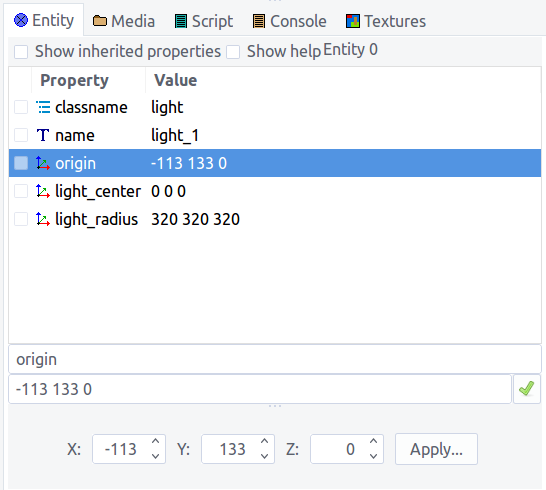
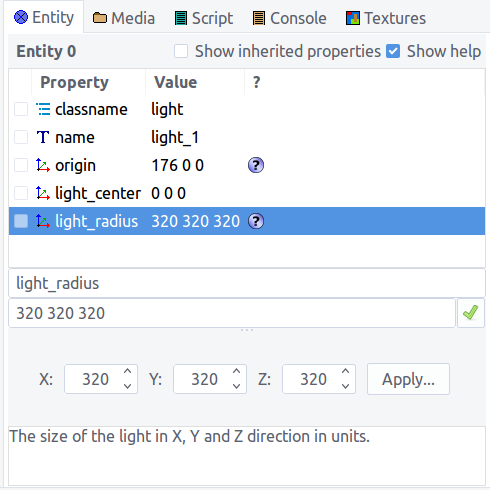
Improve manual section on the entity panel
- Updated screenshot to match the recently-improved widget layout without the
  strange misaligned "Entity 0" label.
- Fleshed out the text to cover editing, adding and removing properties, and
  describing the function of the two checkboxes.

diff --git a/doc/manual.html b/doc/manual.html
@@ -1525,28 +1525,79 @@ These properties are displayed on the <strong>Entity</strong> tab of the editing
 </div>
 </div>
 <div class="paragraph">
-<p>The list box at the top shows all of the properties which are currently set on
-the entity. Every entity has at least two standard properties: <code>classname</code> which
-specifies which type of entity it is, and <code>name</code> which is a unique name for this
-particular entity in the map. Properties that are recognised by DarkRadiant will
-display a small icon indicating the data type: text, boolean, vector etc.</p>
+<p>The entity panel lists all of the properties of the currently-selected entity,
+showing each property&#8217;s name, its current value, and an icon representing its
+type (boolean, vector, text etc) if known. Selecting a property will populate
+the two text boxes in the center of the widget with the property name and value,
+allowing the value to be edited. If the selected property is of a known type,
+the panel at the bottom will show a custom widget appropriate for editing the
+particular property, e.g. three separate numeric spinboxes for a vector
+property, a colour selector widget for a colour property, and so on.</p>
+</div>
+<div class="dlist">
+<dl>
+<dt class="hdlist1"><strong>Changing a property value</strong></dt>
+<dd>
+<p>To change the value of the selected property,
+simply enter the new value in the lower text box, then hit <strong>Enter</strong> or click the
+green tick button. If the property has a type-specific editing widget, you can
+also change its value using the controls in this widget.</p>
+</dd>
+<dt class="hdlist1"><strong>Adding a new property</strong></dt>
+<dd>
+<p>There are two different ways to add a new property:</p>
+<div class="olist arabic">
+<ol class="arabic">
+<li>
+<p>Enter a new property name in the upper text box (which shows the selected
+property name), and hit <strong>Enter</strong>. This does not rename the selected property, but
+adds a new property with the edited name and the current value.</p>
+</li>
+<li>
+<p><strong>Right click</strong> in the list of properties and choose <strong>Add property</strong> from the
+context menu. This will display a new dialog listing all known properties along
+with their descriptive text (if available). Selecting a property in this dialog
+and choosing <strong>OK</strong> will add the property to the entity with a default value of
+"-", which can then be edited in the entity panel itself.</p>
+</li>
+</ol>
+</div>
+</dd>
+<dt class="hdlist1"><strong>Deleting a property</strong></dt>
+<dd>
+<p>To delete the selected property, <strong>Right click</strong> on the
+property in the list and choose <strong>Delete property</strong>.</p>
+</dd>
+</dl>
 </div>
 <div class="paragraph">
-<p>Selecting a property in the list will populate the two text boxes directly below
-with the property name and current value. The value can be changed by editing
-the text and hitting <strong>Enter</strong> (or clicking the green tick button). You can also
-edit the property name and hit <strong>Enter</strong>, however this will not rename the
-property but add a <em>new</em> property with the edited name and the current value.</p>
+<p>The entity panel provides two options controlling its behaviour:</p>
 </div>
-<div class="paragraph">
-<p>At the bottom of the panel is a property-specific widget which allows particular
-known property types to be edited with a more convenient interface. For example,
-the common 3-element vector type will show three separate numeric spin boxes for
-the X, Y and Z axis, along with a button to apply the changes. Boolean
-properties will show a simple checkbox, while generic text properties do not
-show a custom panel at all (since the text can simply be edited using the
-generic value textbox underneath the property list).</p>
-</div>
+<table class="tableblock frame-all grid-all spread">
+<colgroup>
+<col style="width: 25%;">
+<col style="width: 75%;">
+</colgroup>
+<tbody>
+<tr>
+<td class="tableblock halign-left valign-top"><p class="tableblock"><strong>Show inherited properties</strong></p></td>
+<td class="tableblock halign-left valign-top"><p class="tableblock">If checked, all properties that apply to the
+selected entity will be shown, including those which are inherited from the
+entity type declaration in the game installation. If unchecked, only those
+properties explicitly set on this particular entity (and stored in the map file)
+will be shown.
+</p><p class="tableblock">You can change the value of an inherited property by selecting it and entering a
+new value in the entity panel; this will create a new explicit property on the
+entity which overrides the inherited default.</p></td>
+</tr>
+<tr>
+<td class="tableblock halign-left valign-top"><p class="tableblock"><strong>Show help</strong></p></td>
+<td class="tableblock halign-left valign-top"><p class="tableblock">Enables or disables the text widget at the bottom of the panel
+which shows a brief explanation of certain properties. If a property has help
+text available, the question mark icon will be shown in the <strong>?</strong> column.</p></td>
+</tr>
+</tbody>
+</table>
 </div>
 </div>
 </div>
@@ -1554,7 +1605,7 @@ generic value textbox underneath the property list).</p>
 </div>
 <div id="footer">
 <div id="footer-text">
-Last updated 2018-08-21 20:56:39 BST
+Last updated 2018-08-28 20:14:12 BST
 </div>
 </div>
 </body>
